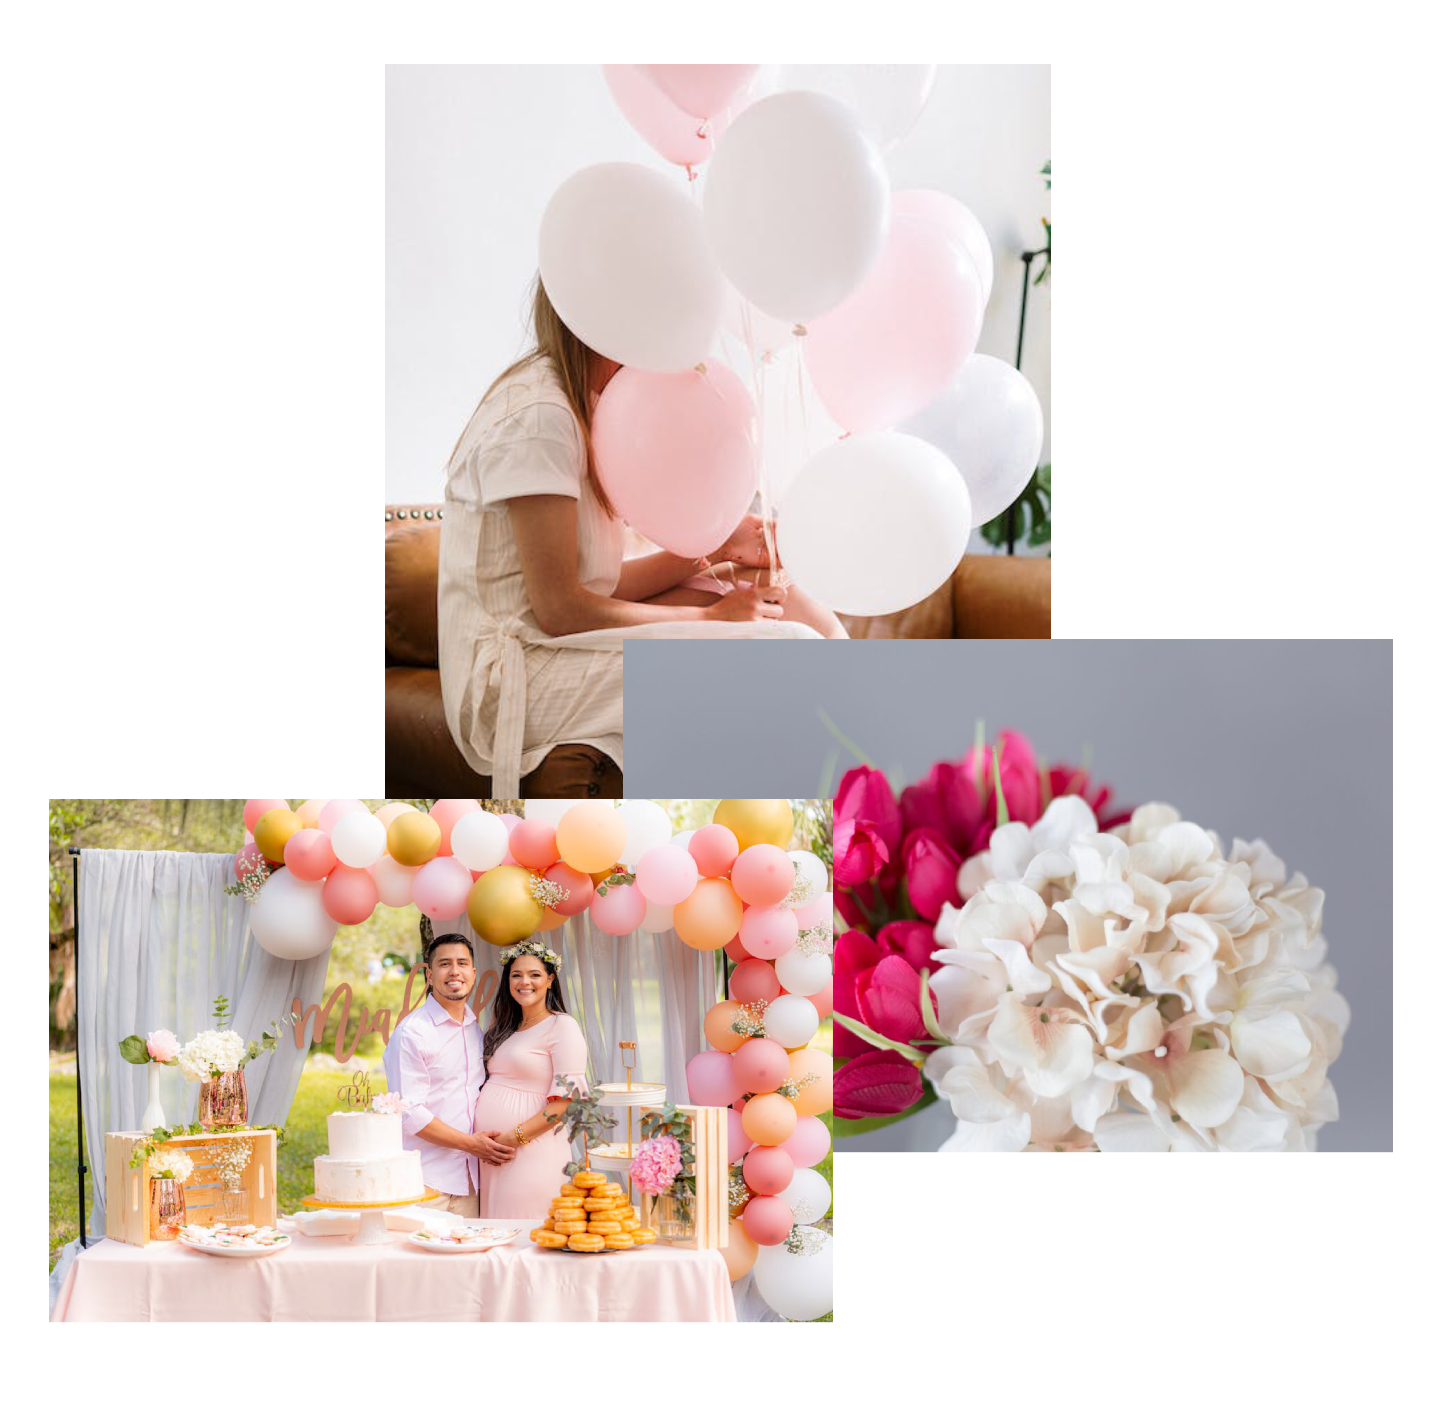
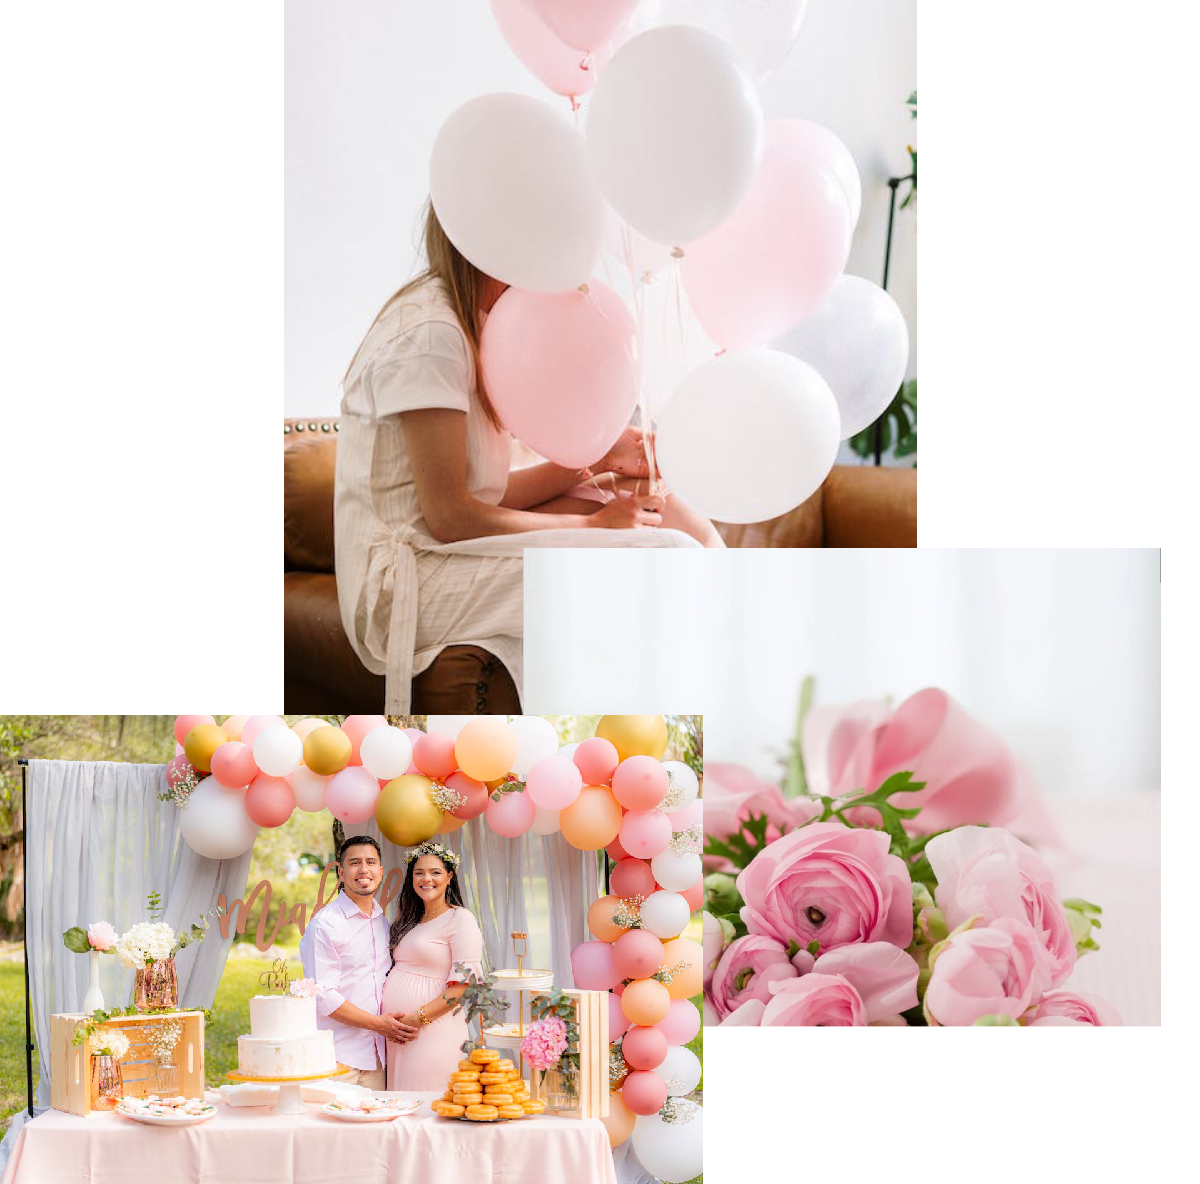
Redesign hero

diff --git a/src/app/Home/Hero/Hero.tsx b/src/app/Home/Hero/Hero.tsx
@@ -7,51 +7,39 @@ import hero from '../../../../assets/img/hero.png';
 
 const Hero: FC = () => {
   return (
-    <section className='pt-12 pb-24'>
-      <div className='grid grid-cols-custom items-center  gap-24 px-9 mx-auto max-w-custom'>
-        <div>
+    <section className='pt-4 sm:pt-12 px-2'>
+      <div className='flex flex-col sm:grid sm:grid-cols-custom sm:items-start gap-24 mx-auto max-w-custom'>
+        <div className='mt-4 sm:mt-16'>
           <h1
             className={clsx(
               josefinSans.className,
-              'heading-primary text-6xl sm:text-7xl text-gray-600'
+              'heading-primary text-center sm:text-start text-4xl sm:text-6xl font-bold text-gray-600'
             )}
           >
-            Dio svake proslave
+            Stvaramo nezaboravna sjećanja koja traju vječno
           </h1>
-          <p className='text-2xl sm:text-3xl text-gray-700 font-medium mt-4'>
-            Stvaramo nezaboravna sjećanja koja traju vječno.
+          <p className='text-lg text-center sm:text-start sm:text-3xl text-gray-700 font-normal mt-4 sm:mt-6'>
+            Iznajmljivanje opreme, organizacija i koordinacija proslava.
+            Prilagođeno vašim potrebama i ličnim željama.
           </p>
-          <div className='mt-10 flex gap-6'>
-            <Button>Počni svoj projekat</Button>
-            <Button className='ghost' variant='ghost'>
-              Saznaj više
+          <div className='mt-10 flex justify-center sm:justify-start gap-6'>
+            <Button className='px-4 py-2 sm:py-3 sm:px-10 sm:text-xl'>
+              Počni svoj projekat
             </Button>
-          </div>
-          <div className='mt-10 flex gap-6'>
-            <Button>Počni svoj projekat</Button>
-            <Button className='ghost' variant='ghost'>
-              Saznaj više
-            </Button>
-          </div>
-          <div className='mt-10 flex gap-6'>
-            <Button>Počni svoj projekat</Button>
-            <Button className='ghost' variant='ghost'>
-              Saznaj više
-            </Button>
-          </div>
-          <div className='mt-10 flex gap-6'>
-            <Button>Počni svoj projekat</Button>
-            <Button className='ghost' variant='ghost'>
-              Saznaj više
+            <Button
+              className='ghost flex items-center justify-center px-4 py-2 sm:py-3 sm:px-10  text-lg  sm:text-xl'
+              variant='ghost'
+            >
+              Saznaj više &darr;
             </Button>
           </div>
         </div>
-        <div className='relative'>
+        <div className='relative '>
           <picture className='hero__image'>
             <Image
               src={hero}
               alt='Hero image'
-              className='max-w-7xl w-120 h-120 object-cover'
+              className='max-w-7xl w-130 h-130 object-cover'
             />
           </picture>
         </div>

diff --git a/src/components/ui/Button.tsx b/src/components/ui/Button.tsx
@@ -3,23 +3,18 @@ import { cva, VariantProps } from 'class-variance-authority';
 import { ButtonHTMLAttributes, FC } from 'react';
 
 export const buttonVariants = cva(
-  'active:scale-95 py-2 px-10  transition-all, duration-300 rounded-sm inline-flex items-center justify-center text-xl font-bold transition-color focus:outline-none focus:ring-8 focus:ring-ring-color-primary focus:ring-offset-2',
+  'active:scale-95 transition-all, duration-300 rounded-sm inline-flex items-center justify-center font-bold transition-color focus:outline-none focus:ring-8 focus:ring-ring-color-primary focus:ring-offset-2',
   {
     variants: {
       variant: {
         default:
           'bg-color-accent-main hover:bg-color-shade-main text-color-shadest',
-        ghost: 'bg-white  hover:bg-color-shadest text-gray-700',
+        ghost: 'bg-white hover:bg-color-shadest text-gray-600',
       },
-      size: {
-        default: 'py-3 px-10',
-        sm: 'h-9 px-2',
-        lg: 'h-11 px-8',
-      },
+      size: {},
     },
     defaultVariants: {
       variant: 'default',
-      size: 'default',
     },
   }
 );

diff --git a/tailwind.config.js b/tailwind.config.js
@@ -8,10 +8,10 @@ module.exports = {
   theme: {
     extend: {
       width: {
-        120: '120%',
+        130: '105%',
       },
       height: {
-        120: '120%',
+        130: '105%',
       },
 
       gridTemplateColumns: {
@@ -40,7 +40,7 @@ module.exports = {
         'stroke-icon-primary': '#b05ec4',
       },
       ringColor: {
-        'ring-color-primary': '#c88ed6',
+        'ring-color-primary': '#ee97a6',
       },
     },
   },

diff --git a/src/app/globals.css b/src/app/globals.css
@@ -50,7 +50,7 @@ body {
 }
 
 *:focus {
-  box-shadow: 0 0 0 0.6rem rgba(200, 142, 214);
+  box-shadow: 0 0 0 0.6rem rgba(238, 151, 166, 1);
   transition: all 0.3s;
   border: none;
   outline: none;
